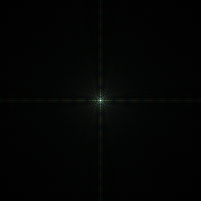
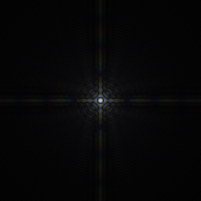
Added first structure for image convolutions, which will utilize the output of the PSF computations

Changed region(s): [[0.4179, 0.4179, 0.597, 0.597]]

diff --git a/src/com/ameliaWx/simSpike/test/ApertureTest.java b/src/com/ameliaWx/simSpike/test/ApertureTest.java
@@ -56,12 +56,16 @@ public class ApertureTest {
                         gammaCorrect(psf.psfBlue[i][j], gamma),
                         gammaCorrect(psf.psfViolet[i][j], gamma));
 
-                g.setColor(colors[i][j].toRGB());
+                g.setColor(correctGreenCast(colors[i][j].toRGB()));
                 g.fillRect(i, j, 1, 1);
             }
         }
 
         return img;
+    }
+
+    private static Color correctGreenCast(Color c) {
+        return new Color(c.getRed(), (int) (0.8 * c.getGreen()), c.getBlue());
     }
 
     private static BufferedImage renderKernel(float[][] kernel) {

diff --git a/src/com/ameliaWx/simSpike/optics/PointSpreadFunction.java b/src/com/ameliaWx/simSpike/optics/PointSpreadFunction.java
@@ -203,7 +203,7 @@ public class PointSpreadFunction {
 
         gpuStart = System.currentTimeMillis();
 
-        kernel.setup(a, 50);
+        kernel.setup(a, 100);
         kernel.execute(range);
         kernel.finish();
         kernel.dispose();

diff --git a/src/com/ameliaWx/simSpike/imageProcessing/ConvolutionGPUKernel.java b/src/com/ameliaWx/simSpike/imageProcessing/ConvolutionGPUKernel.java
@@ -1,0 +1,10 @@
+package com.ameliaWx.simSpike.imageProcessing;
+
+import com.aparapi.Kernel;
+
+public class ConvolutionGPUKernel extends Kernel {
+    @Override
+    public void run() {
+
+    }
+}

diff --git a/src/com/ameliaWx/simSpike/imageProcessing/ImageConvolutionTest.java b/src/com/ameliaWx/simSpike/imageProcessing/ImageConvolutionTest.java
@@ -1,0 +1,4 @@
+package com.ameliaWx.simSpike.imageProcessing;
+
+public class ImageConvolutionTest {
+}
